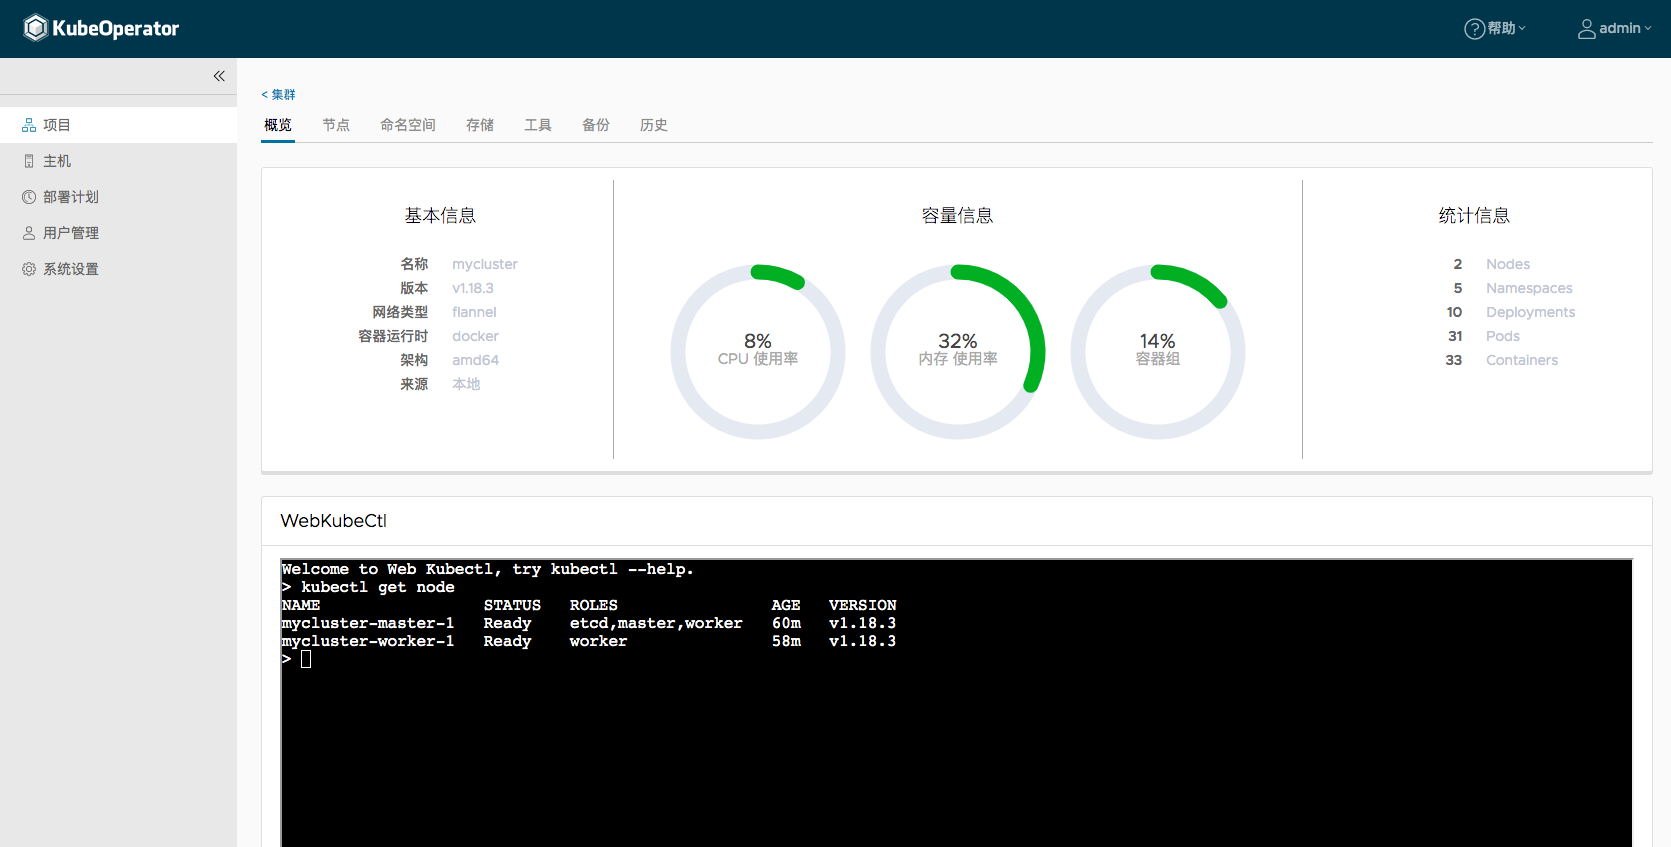
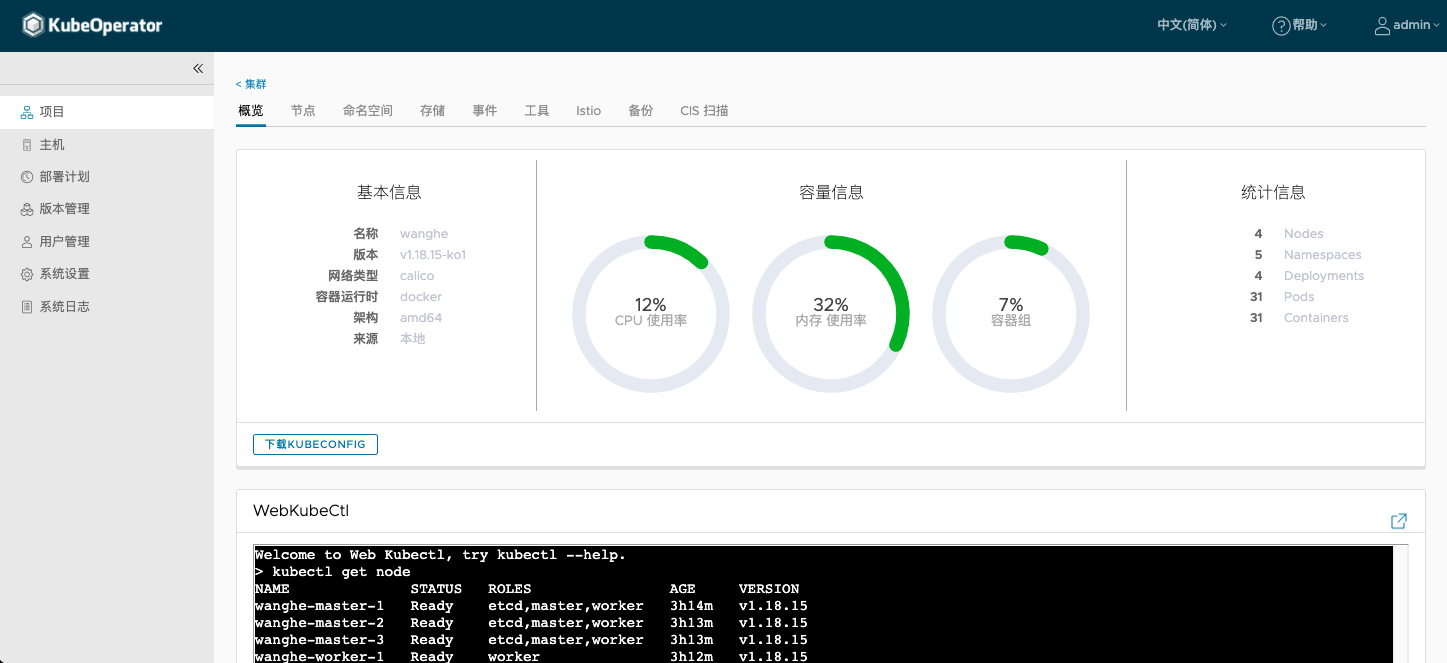
集群运营

diff --git a/docs/quick_start/cluster_operation.md b/docs/quick_start/cluster_operation.md
@@ -11,13 +11,10 @@
 
 ![overview-2](../img/user_manual/cluster/overview-2.png)
 
-!!! warning ""
-    在升级之前，会先检测当前 kubernetes 集群中 etcd、docker/containerd 和 kubernetes 版本。若检测结果为可升级，将会对 etcd、docker/containerd、kubernetes 进行统一升级，从而保证集群各组件之间的兼容性。
-
-### 集群伸缩
+### 集群扩容、缩容
 
 !!! warning ""
-    显示集群节点相关信息。支持针对集群 worker 节点的扩缩容
+    显示集群节点相关信息。支持针对 Kubernetes 集群 worker 节点的扩缩容
 
 ![node-1](../img/user_manual/cluster/node-1.png)
 
@@ -26,17 +23,19 @@
 
 ![node-2](../img/user_manual/cluster/node-2.png)
 
-![node-5](../img/user_manual/cluster/node-5.png)
+![node-5](../img/user_manual/cluster/node-3.png)
 
 !!! warning ""
-    worker 节点缩容
+    * 自动模式: 删除所选节点虚拟机
+    * 手动模式: 在所选节点执行卸载任务，删除该节点上安装 k8s 集群所依赖的服务（节点删除成功后，要手动重启该节点来删除虚拟网卡等信息）
 
-![node-3](../img/user_manual/cluster/node-3.png)
+![node-3](../img/user_manual/cluster/node-4.png)
 
 ### 命名空间
 
 !!! warning ""
-    集群中现有的 namespace
+    * 列表显示为集群中现有的 namespace，支持创建和删除操作
+    * 系统默认和 kube-operator namespace 不支持删除
 
 ![namespace-1](../img/user_manual/cluster/namespace-1.png)
 
@@ -50,11 +49,14 @@
 #### 存储提供商
 
 !!! warning ""
-    支持的类型有nfs、external-ceph、rook-ceph、vsphere
+    支持的类型有 nfs、external-ceph、rook-ceph、vsphere 和 oceanstor（华为 csi）
 
 !!! info ""
-    * rook-ceph: 集群所有节点都必须包含指定的磁盘，如sdb,sdc
+    * nfs: 需要指定 nfs 服务端版本、IP 和共享目录
+    * external-ceph: 创建成功之后，会在集群中初始化 ceph provisioner 相关 pod
+    * rook-ceph: 需要指定 ceph 集群所需磁盘（集群所有节点都必须包含指定的磁盘，如sdb,sdc...）
     * vsphere: 集群服务器必须在指定 Folder 中（自动模式创建集群默认 Folder 为 kubeoperator），并且服务器名称要和集群 node 节点名称保持一致
+    * oceanstor: 参考文档: https://github.com/Huawei/eSDK_K8S_Plugin/tree/master/docs/zh
 
 #### 存储类
 
@@ -86,32 +88,50 @@
 
 ![cluster-events](../img/user_manual/cluster/cluster-events.png)
 
+### 日志
+
+!!! warning ""
+    需要在【工具】页面开启 ElasticSearch 或 Loki 日志组件（不支持同时开启）
+
+![logging-1](../img/user_manual/cluster/logging-1.png)
+
 ### 监控
 
 !!! warning ""
-    需要在【工具】页面安装 Prometheus 作为 Grafana 默认数据源
+    需要在【工具】页面开启 Prometheus 作为 Grafana 默认数据源
 
 ![monitor-1](../img/user_manual/cluster/monitor-1.png)
 
 ### 工具
 
 !!! warning ""
-    提供 prometheus、chartmuseum、registry、dashboard和kubeapps 五种管理工具，可根据需要自定义安装
+    提供 prometheus、kubeapps、grafana、elasticsearch、loki、dashboard、registry和chartmuseum 八种管理工具，可根据需要自定义安装
+
+    !!! warning ""
+        * 点击启用按钮，可以设置 namespace 和是否启用存储等参数
+        * 失败状态下，可点击启用按钮重新设置参数提交（会触发更新操作）
 
 ![tools-1](../img/user_manual/cluster/tools-1.png)
 
-!!! warning ""
-    点击启用按钮，可以设置是否启用存储、设置存储值、选择存储类等参数
+### istio
 
-![tools-2](../img/user_manual/cluster/tools-2.png)
+!!! warning ""
+    默认安装版本为 1.8.0，ingress 和 egress 可根据需要手动开启
+
+![istio-1](../img/user_manual/cluster/istio-1.png)
 
 ### 备份恢复
 
 !!! warning ""
-    - 集群备份: 支持立即备份、定时备份
+    - 集群备份: 支持立即备份、定时备份（需要在系统设置中设置备份账号，并授权到目标项目）
     - 集群恢复: 支持备份列表文件恢复和本地备份文件恢复（上传 etcd 快照文件）
 
 ![cluster-backup-1](../img/user_manual/cluster/cluster-backup-1.png)
+
+!!! warning "日志"
+    可以查看针对集群的备份、恢复记录以及任务执行异常时的错误日志
+
+![cluster-backup-2](../img/user_manual/cluster/cluster-backup-2.png)
 
 ### CIS 扫描
 
@@ -120,23 +140,29 @@
 
 ![cis-scan](../img/user_manual/cluster/cis-scan.png)
 
-### 历史
-
-!!! warning ""
-    可以查看针对集群的操作记录以及异常时的错误日志
-
-![cluster-history](../img/user_manual/cluster/cluster-history.png)
-
 ### 集群升级
 
 !!! warning ""
-    进入【项目】菜单，选中目标集群，点击【升级】按钮，选择要升级到的目标版本
+    * 进入【项目】菜单，选中目标集群，点击【升级】按钮，选择要升级到的目标版本
+    * 升级之前，会先检测当前 kubernetes 集群中 etcd、docker/containerd 和 kubernetes 版本，若检测结果为可升级，将会对 etcd、docker/containerd、kubernetes 进行统一升级，从而保证集群各组件之间的兼容性
+    * 升级过程中，支持查看任务实时的日志输出
 
 ![cluster-upgrade](../img/user_manual/cluster/cluster-upgrade.png)
+
+### 集群诊断
+
+!!! warning ""
+    * 检查集群节点网络是否可用
+    * 检查 kubeoperator_server 容器内是否可以 ssh 连接到 kubernetes 集群节点
+    * 检查 kubeoperator_server 容器内是否可以正常调用 kubernetes api
+
+![cluster-diagnosis](../img/user_manual/cluster/cluster-diagnosis.png)
 
 ### 集群卸载
 
 !!! warning ""
-    进入【项目】菜单，选中目标集群，点击【删除】按钮
+    * 自动模式: 删除 KubeOperator 创建的虚拟机
+    * 手动模式: 在集群所有节点执行卸载任务，删除安装 k8s 集群所依赖的服务（集群卸载完成后，要手动重启节点来删除虚拟网卡等信息）
+    * 强制删除: 如果 k8s 集群存在失联状态的节点，可勾选强制删除来删除集群
 
-![deploy-5](../img/user_manual/cluster/deploy-5.png)
+![cluster-remove](../img/user_manual/cluster/cluster-remove.png)

diff --git a/docs/quick_start/cluster_deployment.md b/docs/quick_start/cluster_deployment.md
@@ -8,9 +8,9 @@
     - Yum 仓库: 支持替换、共存和不操作三种类型
 
     !!! info "Yum 仓库"
-        * 替换: 此操作将会对 K8S 节点服务器原始 yum repo 文件进行备份，之后生成并仅使用 KubeOperator 的 yum repo
-        * 共存: 此操作将保持K8S节点服务器原始 yum repo 文件不变，同时生成并使用 kubeoperator 的 yum repo
-        * 不操作: 此操作将保持使用 K8S 节点服务器原始 yum repo 文件，不对K8S节点服务器的 yum repo 做任何操作
+        * 替换: 会对 K8S 节点服务器原始 yum repo 文件进行备份，之后生成并仅使用 KubeOperator 的 yum repo
+        * 共存: 将保持 K8S 节点服务器原始 yum repo 文件不变，同时生成并使用 kubeoperator 的 yum repo
+        * 不操作: 将保持使用 K8S 节点服务器原始 yum repo 文件，不对 K8S 节点服务器的 yum repo 做任何操作
 
 ![deploy-1](../img/user_manual/cluster/deploy-1.png)
 
@@ -77,3 +77,10 @@
 ### 确认信息
 
 ![deploy-review](../img/user_manual/cluster/deploy-review.png)
+
+### 日志
+
+!!! warning ""
+    集群创建过程中为 Initializing 状态，点击可查看集群安装进度并支持查看当前任务的实时日志（支持手动暂停任务日志输出）
+
+![deploy-log](../img/user_manual/cluster/deploy-log.png)
